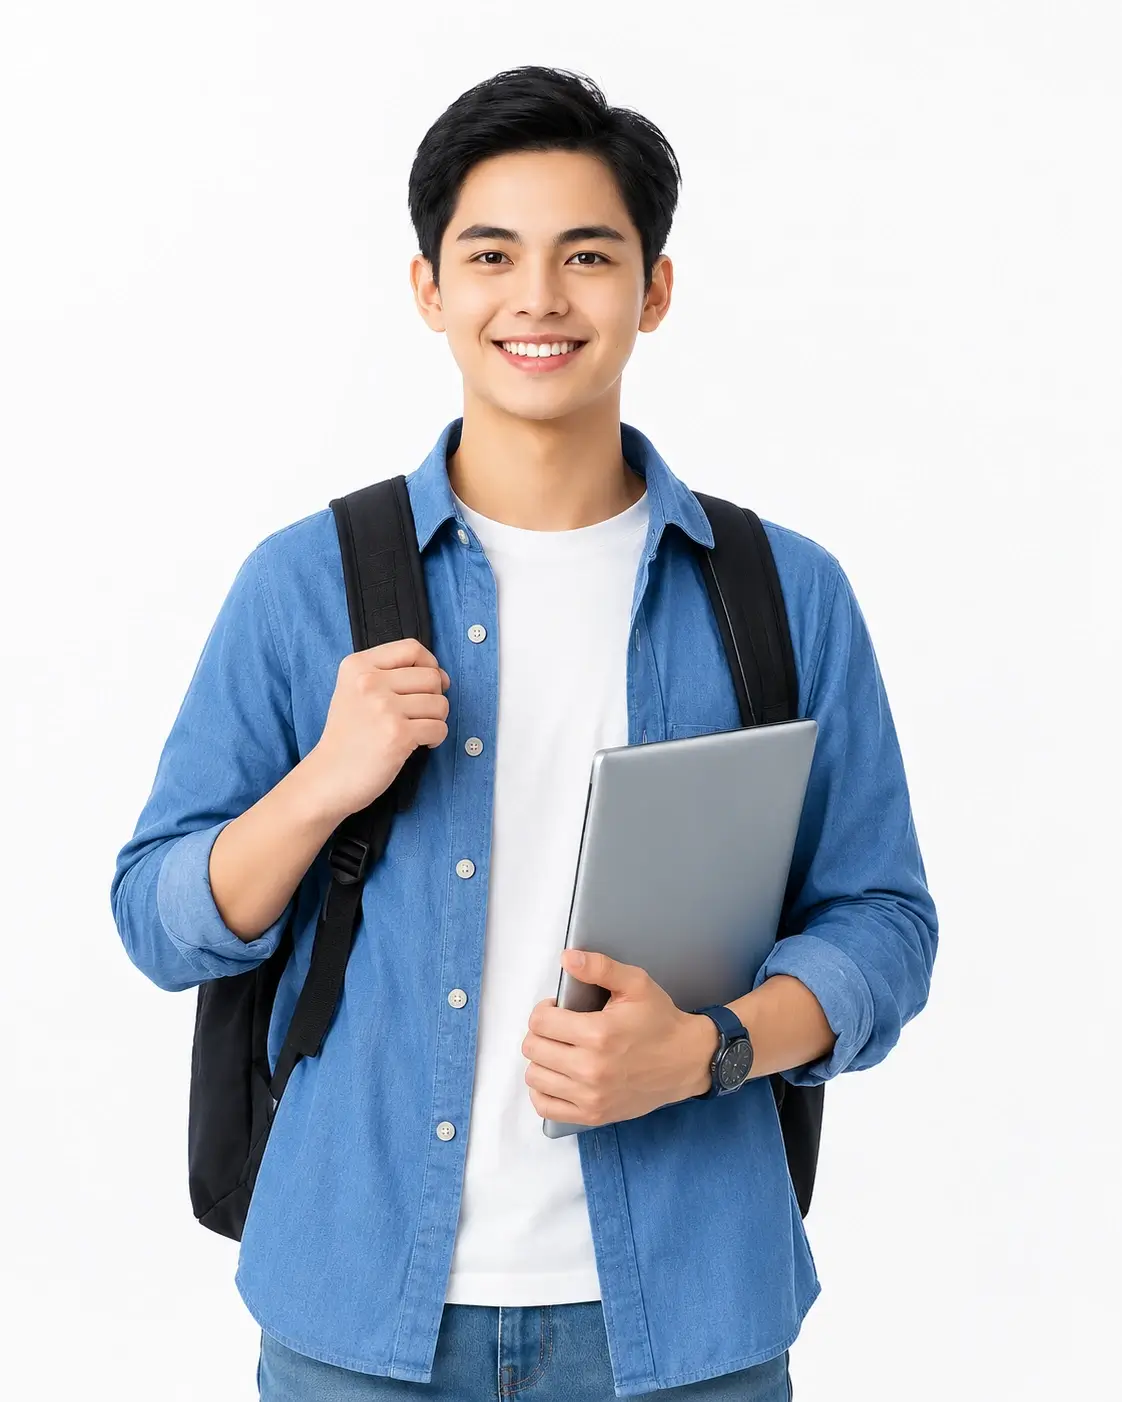
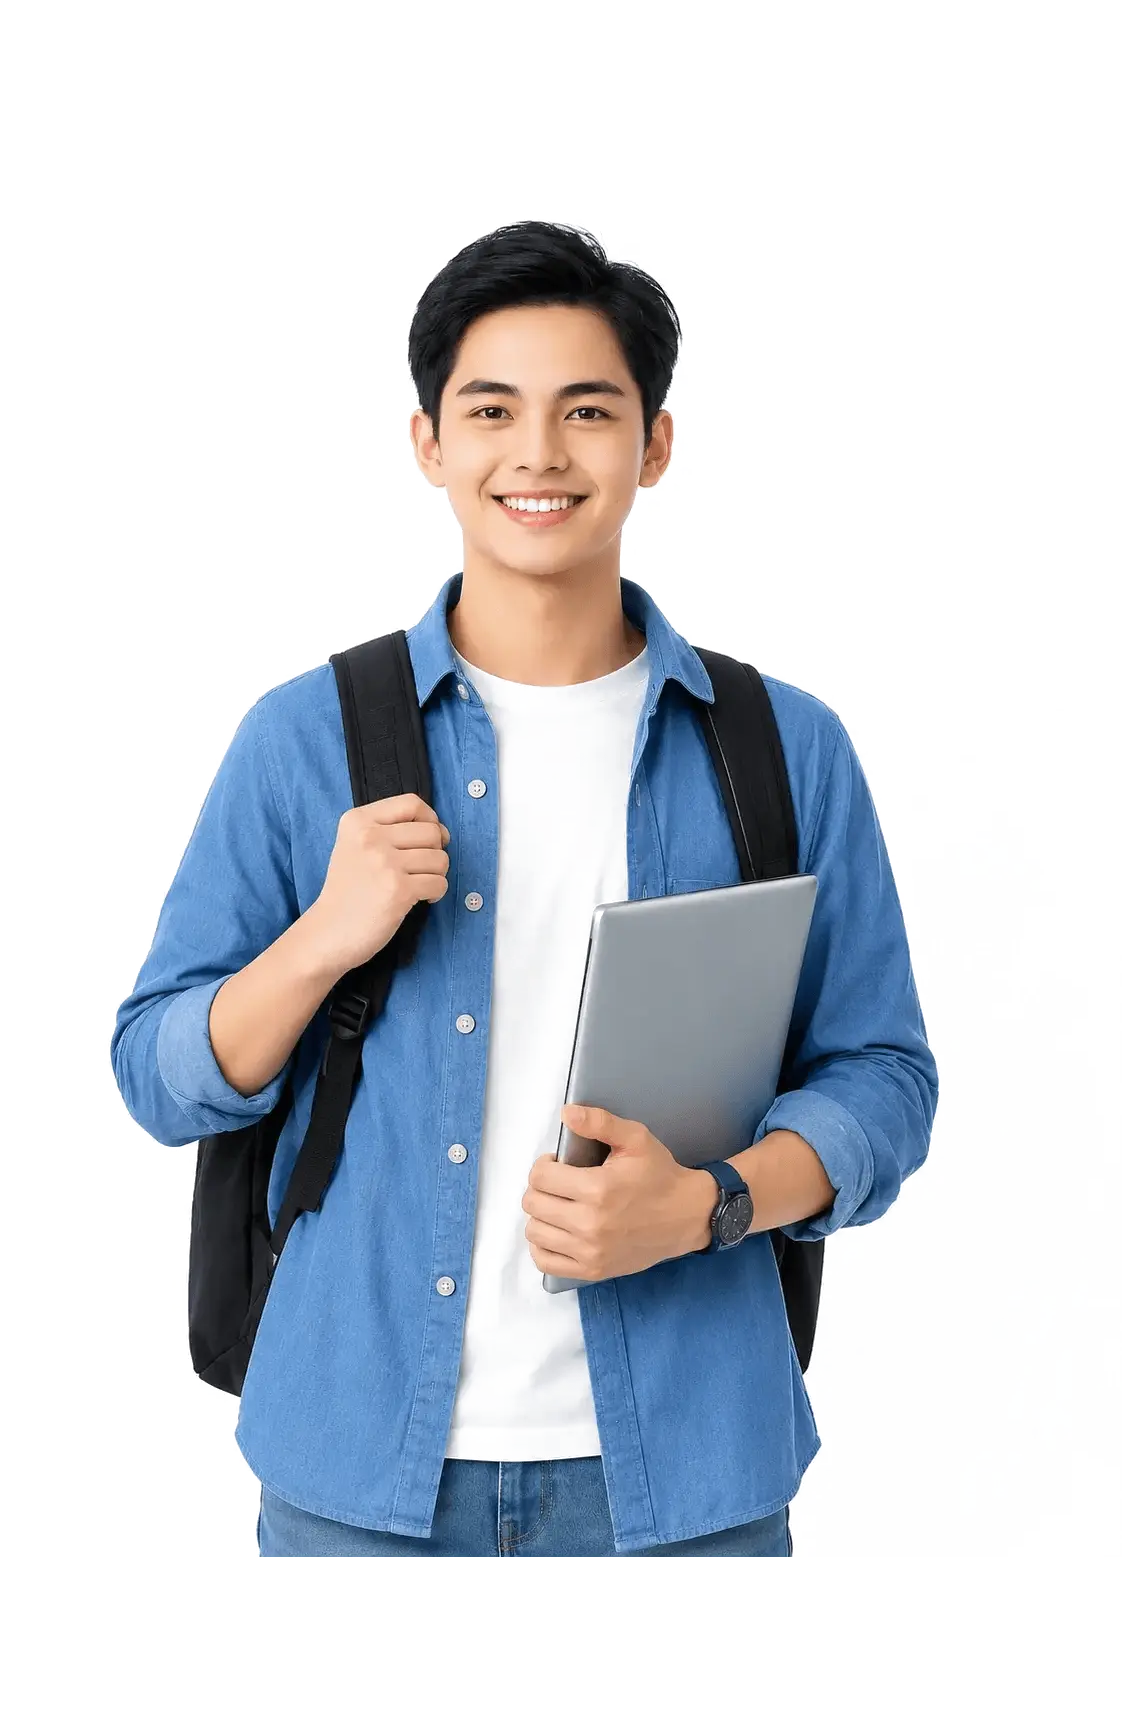
refactor(LandingPageV2): resize character 1 image

Changed region(s): [[0.0936, 0.0307, 0.8422, 1.0], [0.3119, 0.7974, 0.3431, 0.8281], [0.156, 0.4601, 0.1872, 0.4907]]

diff --git a/src/views/pages/LandingPageV2.tsx b/src/views/pages/LandingPageV2.tsx
@@ -32,7 +32,7 @@ const LandingPageV2: FC = () => {
 
   return (
     <LandingLayout>
-      <Box sx={{ px: { xs: 2, sm: 4, md: 6 } }}>
+      <Box sx={{ px: { xs: 2, sm: 4, md: 6 }, backgroundColor: "white" }}>
         <HeroV2
           onPrimaryClick={handleStartNow}
           onSecondaryClick={handleExploreNow}

diff --git a/src/LandingApp.tsx b/src/LandingApp.tsx
@@ -1,5 +1,6 @@
 import LandingPage from "./views/pages/LandingPage";
+import LandingPageV2 from './views/pages/LandingPageV2';
 
 export default function LandingApp() {
-  return <LandingPage />;
+  return <LandingPageV2 />;
 }
